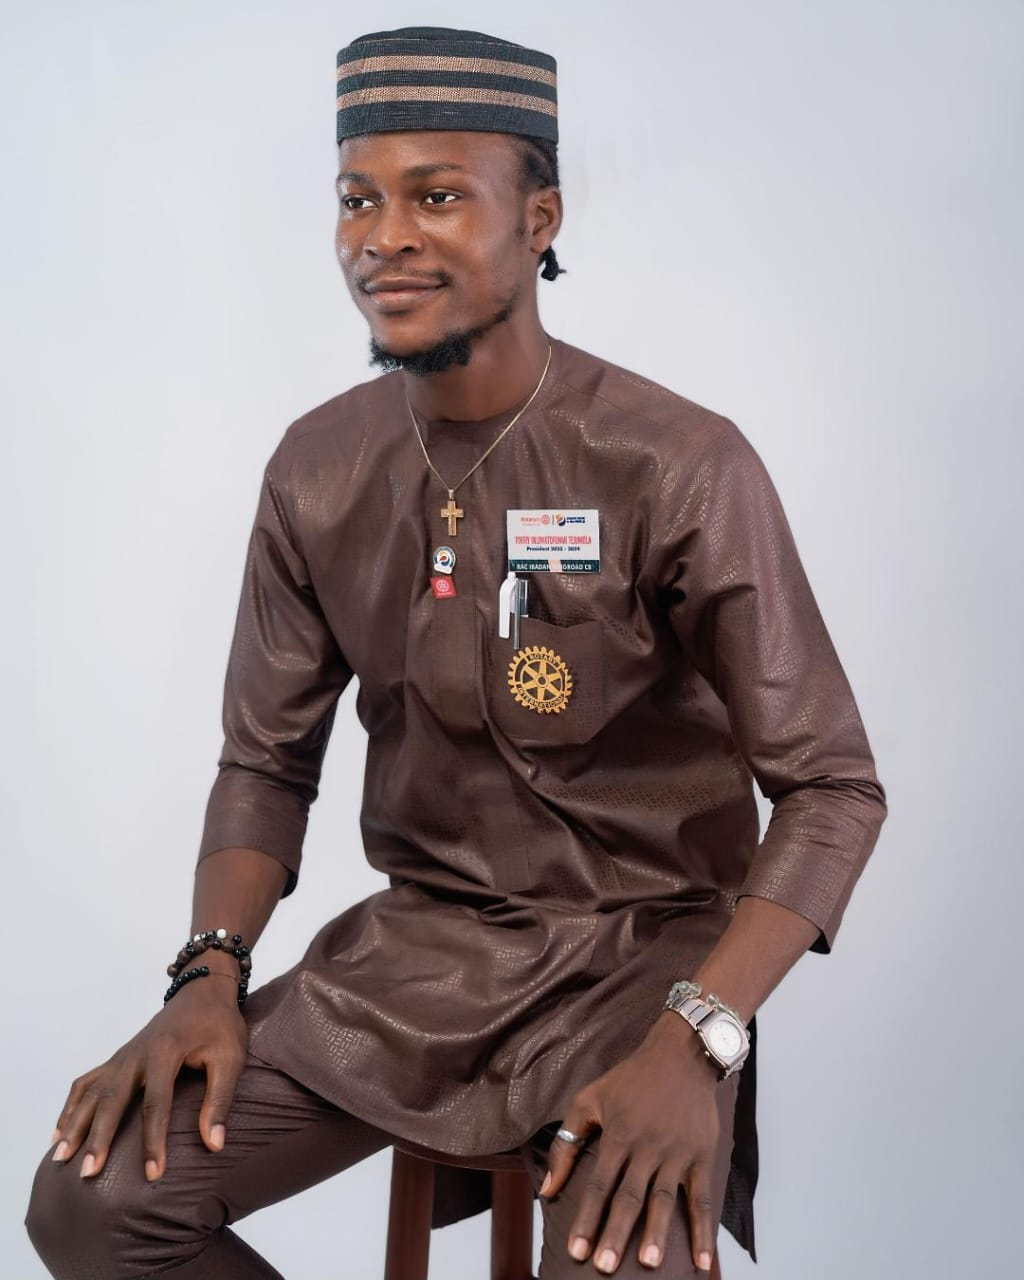
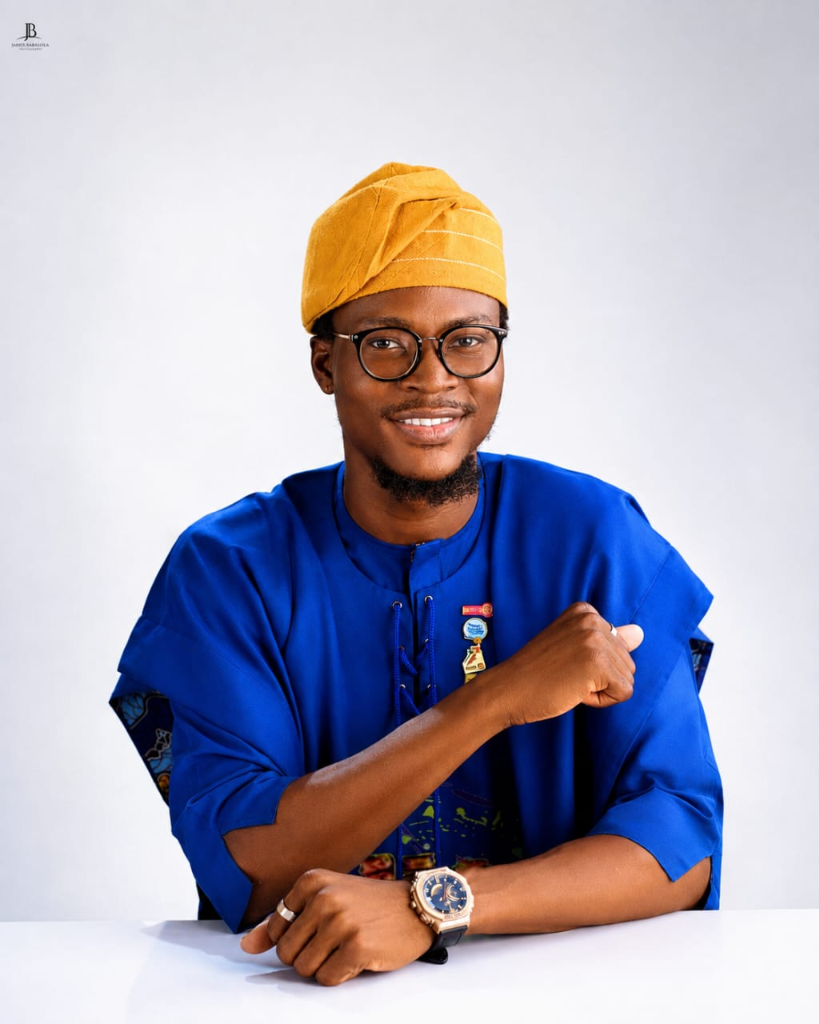
feat(leadership): update Toffy (Rtr. Oluwatofunmi Tejumola) official portrait

diff --git a/components/sections/LeadershipSection.tsx b/components/sections/LeadershipSection.tsx
@@ -19,12 +19,12 @@ export default function LeadershipSection({ showOnly = "all" }: { showOnly?: "te
     { name: "Rtr. PP Oyewumi Kamaldeen PHF", role: "DRR 2024 - 2025", tooltip: "PDR (Kamal)", image: "/images/leaders/drr-oyewumi-kamaldeen.jpg" },
     { name: "Rtr. PP Raji Abeeb Adekola", role: "DRR 2025 - 2026", tooltip: "IPDR (Youngest)", image: "/images/leaders/drr-raji-abeeb.jpg" },
     { name: "Rtr. PP Adaramoye Iyanuoluwa PHF", role: "DRR 2026 - 2027", tooltip: "DRR (Adukee)", image: "/images/leaders/drr-adaramoye-iyanuoluwa.jpg" },
-    { name: "Rtr. Oluwatofunmi Tejumola", role: "DRR 2027 - 2028", tooltip: "DRRE (Toffy)", image: "/images/leaders/adrr-oluwatofunmi-tejumola.jpg" },
+    { name: "Rtr. Oluwatofunmi Tejumola", role: "DRR 2027 - 2028", tooltip: "DRRE (Toffy)", image: "/images/leaders/toffy-tejumola.png" },
     { name: "Rtr. Shittu Ifedolapo PHF", role: "DRR 2028 - 2029", tooltip: "DRRN (Dolapo)", image: "/images/leaders/drrn-shittu-ifedolapo.jpg" }
   ];
 
   const adrrs = [
-    { name: "PP Oluwatofunmi Tejumola", role: "Zone 1, Oyo State", tooltip: "ADRR", image: "/images/leaders/Oluwatofunmi tejumola ADRR.jpeg" },
+    { name: "PP Oluwatofunmi Tejumola", role: "Zone 1, Oyo State", tooltip: "ADRR", image: "/images/leaders/toffy-tejumola.png" },
     { name: "PP Aderibigbe Kehinde David", role: "Zone 2, Osun State", tooltip: "ADRR", image: "/images/leaders/kehinde david.jpeg" },
     { name: "PP Abubakar Aminat Abiodun", role: "Zone 3, Kwara & Niger State", tooltip: "ADRR", image: "/images/leaders/aminat abiodun.jpeg" },
     { name: "PP Ijalana Oluwatobi", role: "Zone 4, Ondo & Ekiti", tooltip: "ADRR", image: "/images/leaders/Ijanala oluwatobi.jpeg" },
